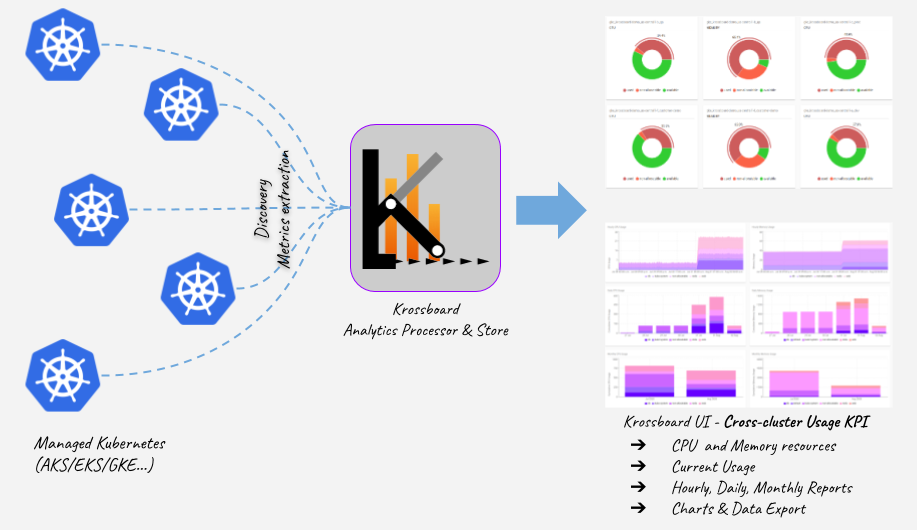
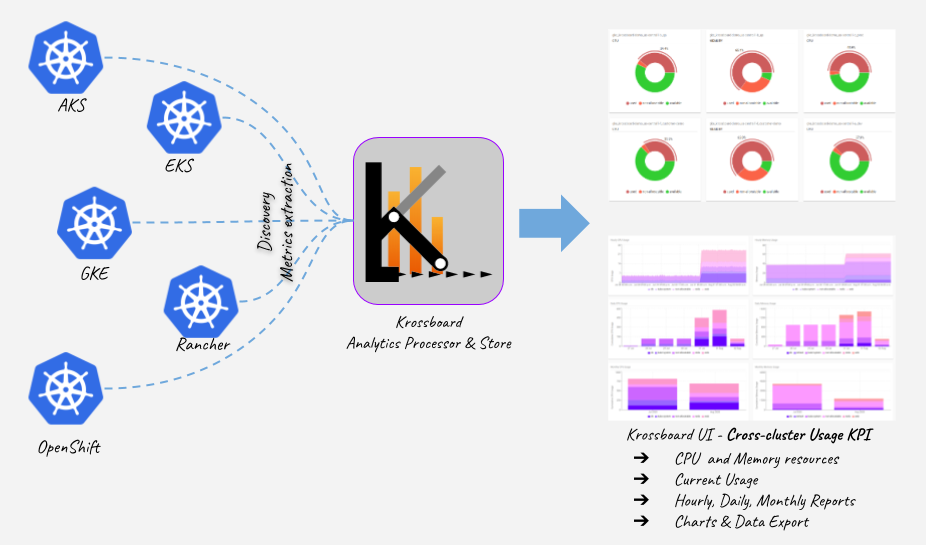
added docs for vanilla deployments

diff --git a/layouts/index.html b/layouts/index.html
@@ -9,15 +9,19 @@
 				<h1 class="title large" data-rgen-sm="large" data-rgen-md="mr-t-40">{{ .Site.Params.title }}</h1>
 				<p class="title-sub mr-b-40">{{ .Site.Params.subtitle }}</p>
 
-				<a href="/docs/deploy-for-google-gke/" class="mr-10 btn solid btn-white" data-rgen-sm="medium bold-n">
+				<a href="/docs/deploy-for-google-gke/" class="mr-7 btn solid btn-white" data-rgen-sm="medium bold-n">
 					<span class="btn-txt">Deploy for Google GKE</span>
 				</a>
-				<a href="/docs/deploy-for-azure-aks/" class="mr-10 btn solid btn-color1" data-rgen-sm="medium bold-n">
+				<a href="/docs/deploy-for-azure-aks/" class="mr-7 btn solid btn-color1" data-rgen-sm="medium bold-n">
 					<span class="btn-txt">Deploy for Azure AKS</span>
 				</a>
-				<a href="/docs/deploy-for-amazon-eks/" class="mr-10 btn solid btn-color3" data-rgen-sm="medium bold-n">
+				<a href="/docs/deploy-for-amazon-eks/" class="mr-7 btn solid btn-color3" data-rgen-sm="medium bold-n">
 					<span class="btn-txt">Deploy for Amazon EKS</span>
 				</a>
+
+				<a href="/docs/deploy-for-cross-cloud-and-on-premises-kubernetes/" class="mr-7 btn solid btn-color4" data-rgen-sm="medium bold-n">
+					<span class="btn-txt">Cross-Cloud/On-premises</span>
+				</a>				
 			</div>
 			
 			<img src="images/docs/krossboard-architecture-overview.png" class="mr-auto" alt="intro image">

diff --git a/layouts/partials/nav.html b/layouts/partials/nav.html
@@ -32,6 +32,7 @@
 									<li><a href="/docs/deploy-for-google-gke/">🚀 for Google GKE</a></li>
 									<li><a href="/docs/deploy-for-azure-aks/">🚀 for Azure AKS</a></li>
 									<li><a href="/docs/deploy-for-amazon-eks/">🚀 for Amazon EKS</a></li>
+									<li><a href="/docs/deploy-for-cross-cloud-and-on-premises-kubernetes/">🚀 Cross-Cloud and On-premises Kubernetes</a></li>
 									<li class="divider"></li>
 									<li class="dropdown-header"><b>Concepts & Usage Analytics</b></li>
 									<li><a href="/docs/overview-concepts-features/">Overview, Concepts & Features</a></li>

diff --git a/content/docs/deploy-for-cross-cloud-and-on-premises-kubernetes.md b/content/docs/deploy-for-cross-cloud-and-on-premises-kubernetes.md
@@ -1,0 +1,92 @@
++++
+title = "Setup for Cross-Cloud and On-premises Kubernetes (OpenShift, Rancher, etc.)"
+description = ""
+weight = 20
+draft = false
+bref = ""
+toc = true 
++++
+
+For this kind of deployment, Krossboard is provided either as a binary package for Ubuntu Server 18.04 LTS, or a ready-to-use OVF/VMDK virtual machine appliance.
+
+Regardless of the selected deployment approach, the installation steps described hereafter shall be achieved in a couple of minutes. 
+
+## Before you begin
+According to the selected deployment approach, the following key points shall be considered:
+
+* **For the OVF/VMDK distribution**, a virtual machine manager or a cloud environment supporting this format is required. Most of modern virtual machine management tools do support this format (e.g. VirtualBox, VMware tools, OpenStack, etc.).
+* **For the binary package**, a machine running Ubuntu Server 18.04 LTS is required. A `sudo` access is required to perform the installation. The deployment script may have to install missing dependencies (e.g. Docker), hence the machine should have access to official/mirrored Ubuntu repositories.
+
+> **Hardware requirements:** Krossboard itself has a very low resources footprint, the hardware resources allocated to your instance do mainly depend on the among of Kubernetes clusters and namespaces in each one. For example, assuming that you `10 clusters` you can start with the following specifications and update it later according to the resource utilization (`vCPU: 2`, `RAM: 1024 MB`).
+
+## Deploy Krossboard using the OVF image
+
+* Go to the [release page](https://github.com/2-alchemists/krossboard/releases) and download a OVF package of Krossboard.
+* The package is a zip archive. Uncompress it and read the NOTICE and the EULA files to learn its terms use.
+* According to your virtual machine management tool (e.g. VirtualBox, VMware tools, OpenStack, etc.), follow the official procedure to import OVF application. The following links are given as indicative references (If a link is broken, please [report it here]({{< relref "/contact/support" >}})).
+  *  [VirtualBox: Importing Virtual Machines](https://docs.oracle.com/en/virtualization/virtualbox/6.0/user/ovf.html#ovf-about).
+  * [VMware vSphere: Deploy an OVF or OVA Template](https://docs.vmware.com/en/VMware-vSphere/7.0/com.vmware.vsphere.vm_admin.doc/GUID-17BEDA21-43F6-41F4-8FB2-E01D275FE9B4.html)
+  * [VMware Workstation/Player: Import an Open Virtualization Format Virtual Machine](https://docs.vmware.com/en/VMware-Workstation-Player-for-Linux/14.0/com.vmware.player.linux.using.doc/GUID-DDCBE9C0-0EC9-4D09-8042-18436DA62F7A.html).
+* Start the imported virtual machine. 
+* Once started, connect to the virtual machine via SSH to continue with the integration with Kubernetes clusters below (see below).
+  * Username: `ubuntu`
+  * Default password (to be changed): `krossboard`
+
+## Deploy Krossboard using the binary distribution
+* Go to the [release page](https://github.com/2-alchemists/krossboard/releases) and download a binary package of Krossboard.
+* The package is a zip archive, copy the archive to the target installation machine.
+* Uncompress it and read the NOTICE and the EULA files to learn its terms use.
+  ```sh
+  cd krossboard-<VERSION>
+  sudo ./install
+  ```
+* Use these commands to launch the installation.
+
+  ```sh
+  cd krossboard-<VERSION>
+  sudo ./install.sh
+  ```
+* Once the installation completed, reboot the machine to start the services.
+
+## Integration with Kubernetes clusters
+* Create or copy via SSH the `KUBECONFIG` file of your Kubernetes clusters on the Krossboard machine.
+  In the next steps we consider that it's located at `/opt/krossboard/etc/kubeconfig`.
+
+* Make sure that the KUBECONFIG file is readable by the `krossboard` user.
+  
+  ```sh
+  sudo chown krossboard:krossboard /opt/krossboard/etc/kubeconfig
+  ```
+
+* Edit the Krossboard configuration file as follows.
+  
+  ```sh
+  sudo vi /opt/krossboard/etc/krossboard.env
+
+  # Uncomment this line and set the KUBECONFIG variable appropriately.
+  KUBECONFIG=/opt/krossboard/etc/kubeconfig
+  ```
+  
+* The configuration shall be taken into account within the next 10 minutes. However, you can force the refresh using this command.
+
+  ```sh
+  sudo systemctl restart  krossboard-data-processor-collector
+  ```
+
+## Get access to Krossboard UI
+Open a browser tab and point it to the Krossboard URL displayed at the end of the installation script. **Note:** It may take a few seconds before the instance finishes its initialization, during this time you may experience a loading error in the browser.
+
+The default username and password to sign in are:
+
+* **Username:** krossboard
+* **Password (default):** Kr0sSB8qrdAdm
+
+> It's highly recommended to change this default password as soon as possible. 
+> ```bash
+> sudo /opt/krossboard/bin/krossboard-change-passwd
+> ```
+
+## Next Steps
+* [Discover and explore Krossboard analytics and data export]({{< relref "/docs/analytics-reports-and-data-export" >}})
+* [Setup Krossboard for Amazon EKS]({{< relref "/docs/deploy-for-amazon-eks" >}})
+* [Setup Krossboard for AAzure AKS]({{< relref "/docs/deploy-for-azure-aks" >}})

diff --git a/content/docs/deploy-for-google-gke.md b/content/docs/deploy-for-google-gke.md
@@ -18,7 +18,7 @@ This installation guide assumes that:
 
 * You have a basic level of practice with GCP.
 * You have a GCP account with at least an editor level of access to a project. The editor role is needed to create and configure your Krossboard instance. **Krossboard itself needs _read-only access_ to your GKE clusters**.
-* You have access to a Linux terminal with [gcloud](https://cloud.google.com/sdk) installed and configured to get access o your GCP project. Or, alternatively, you may use [Google Cloud Shell](https://cloud.google.com/shell).
+* You have access to a `bash >=4` terminal with [gcloud](https://cloud.google.com/sdk) installed and configured to get access o your GCP project. Or, alternatively, you may use [Google Cloud Shell](https://cloud.google.com/shell).
 * You have [kubectl](https://kubernetes.io/fr/docs/tasks/tools/install-kubectl/) installed and accessible from your terminal.
 
 ## Deploy a Krossboard instance

diff --git a/content/docs/deploy-for-azure-aks.md b/content/docs/deploy-for-azure-aks.md
@@ -20,7 +20,7 @@ This installation guide assumes that:
 
 * You have at least a basic level of practice with Azure concepts.
 * You have an active Azure subscription with administrator permissions to create and configure your Krossboard instance.   **Krossboard itself needs _read-only access_ to your AKS clusters**.
-* You have access to a Linux terminal (or [Azure Cloud Shell](https://azure.microsoft.com/features/cloud-shell/)) where you can use Azure CLI.
+* You have access to a `bash >=4` terminal (or [Azure Cloud Shell](https://azure.microsoft.com/features/cloud-shell/)) where you can use Azure CLI. 
 * You have [`kubectl`](https://kubernetes.io/fr/docs/tasks/tools/install-kubectl/) installed and accessible from your terminal.
 
 ### Sign in to Azure

diff --git a/content/docs/deploy-for-amazon-eks.md b/content/docs/deploy-for-amazon-eks.md
@@ -19,7 +19,7 @@ This installation guide assumes that:
 
 * You have a basic level of practice with AWS concepts.
 * You have an active AWS account with administrator access to create and configure your Krossboard instance. **Krossboard itself needs _read-only access_ to your EKS clusters**.
-
+* You have access to a `bash >=4` terminal.
 * You have [`kubectl`](https://kubernetes.io/fr/docs/tasks/tools/install-kubectl/), `curl` and [`jq`](https://stedolan.github.io/jq/) installed and accessible from your terminal.
 
 ## Deploy a Krossboard instance

diff --git a/content/_index.md b/content/_index.md
@@ -1,5 +1,5 @@
 +++
-title = "Centralized Kubernetes usage analytics (Google GKE, Amazon EKS, Microsoft AKS)"
+title = "Centralized cross-cloud multiple Kubernetes usage analytics (GKE, EKS, AKS, OpenShift, Rancher)"
 subtitle = ""
 description = "All in one single place, Krossboard tracks the usage of all your clusters over time, it helps forecast capacity scale up/down, thereby enabling you to easily anticipate and master operations costs."
 draft = false
